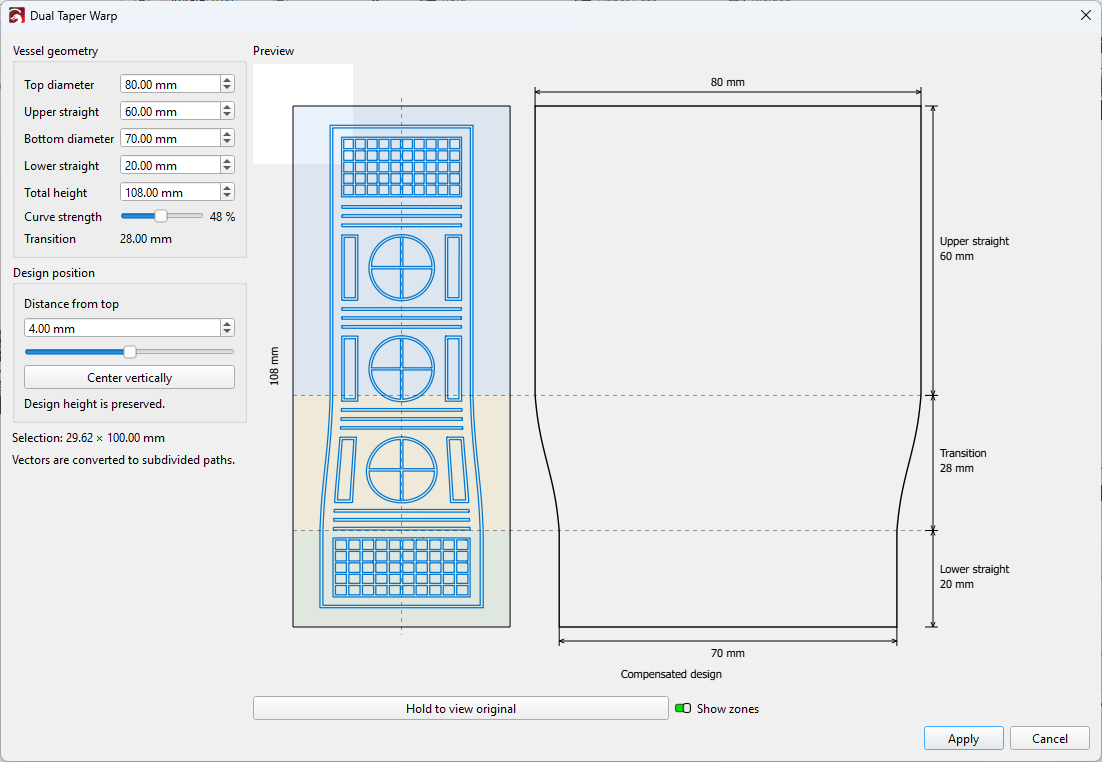
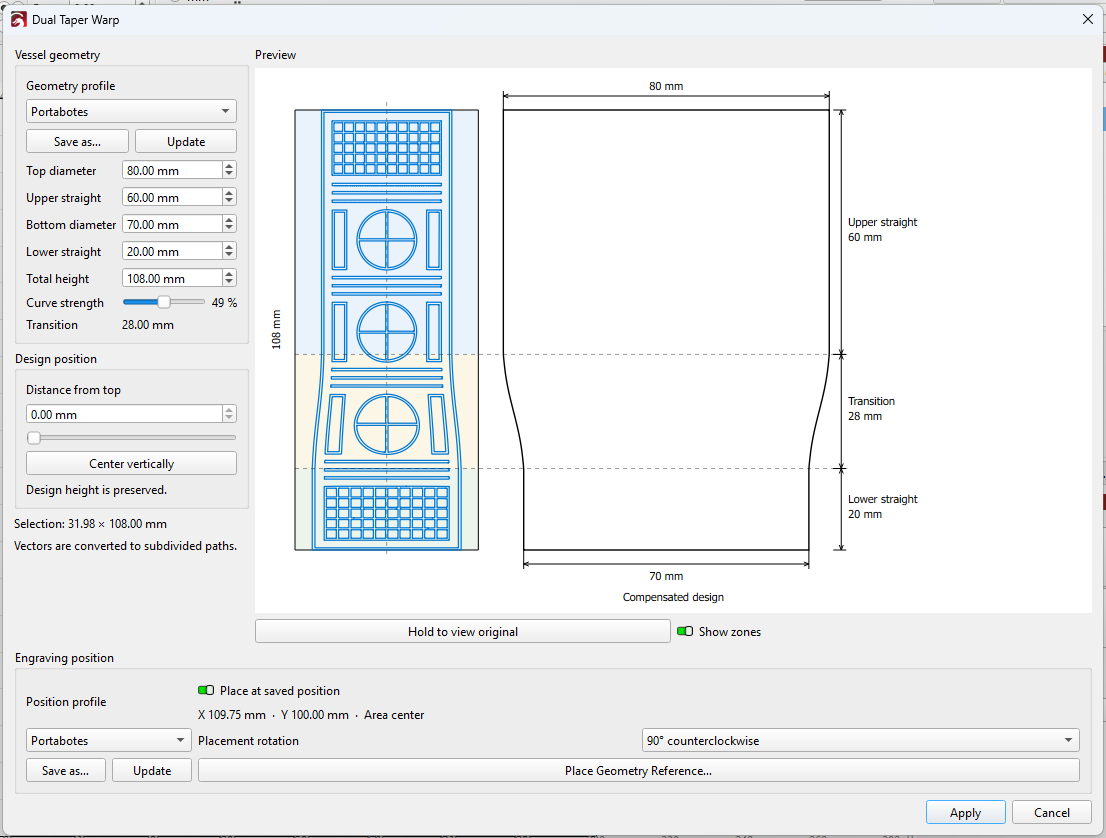
Update README screenshots for saved profiles

diff --git a/README.md b/README.md
@@ -15,13 +15,21 @@ Each tool can save its own geometry profiles. Both tools share engraving-positio
 
 ## Screenshots
 
-**Dual Taper Warp** shows the compensated design next to the vessel profile, with the upper straight section, transition, and lower straight section marked.
+**Dual Taper Warp** previews compensation across three vessel zones. The dialog shows the selected geometry and engraving position profiles.
 
-![Dual Taper Warp dialog with a compensated vector and a dimensioned three-zone vessel profile](docs/screenshots/dual-taper-warp.png)
+![Dual Taper Warp with saved geometry and position profiles and a three-zone vessel preview](docs/screenshots/dual-taper-warp.png)
 
-**Taper Warp v2** shows the compensated design inside the virtual reference rectangle.
+**Place Geometry Reference** lets you move or rotate the T1 rectangle on the LightBurn canvas. Select **Confirm Position** when it is in place.
 
-![Taper Warp v2 dialog with the design position slider, reference rectangle, and tapered vessel profile](docs/screenshots/taper-warp-v2-dialog.png)
+![Selected horizontal T1 rectangle on the LightBurn canvas beside the Confirm Position and Cancel buttons](docs/screenshots/place-geometry-reference.png)
+
+**Save Position Profile** shows the captured coordinates and rotation so you can check them before naming the profile.
+
+![Save Position Profile dialog showing the captured X and Y coordinates and a 90-degree counterclockwise rotation](docs/screenshots/save-position-profile.png)
+
+**Taper Warp v2** shows the compensated design inside the virtual reference rectangle. The selected position profile controls where the result goes on the canvas.
+
+![Taper Warp v2 with a virtual reference rectangle, Distance from top control, and saved engraving position](docs/screenshots/taper-warp-v2-dialog.png)
 
 Both tools appear under **Taper Warp** in the **Laser Tools** menu.
 
@@ -34,7 +42,7 @@ The Windows x64 launcher verifies the full executable SHA-256 and checks the map
 | LightBurn | Executable SHA-256 | Verification |
 | --- | --- | --- |
[3 lines of base64/hex data omitted]
 
 See the [installation guide](INSTALL.md) for the portable ZIP and manual test steps.
 
